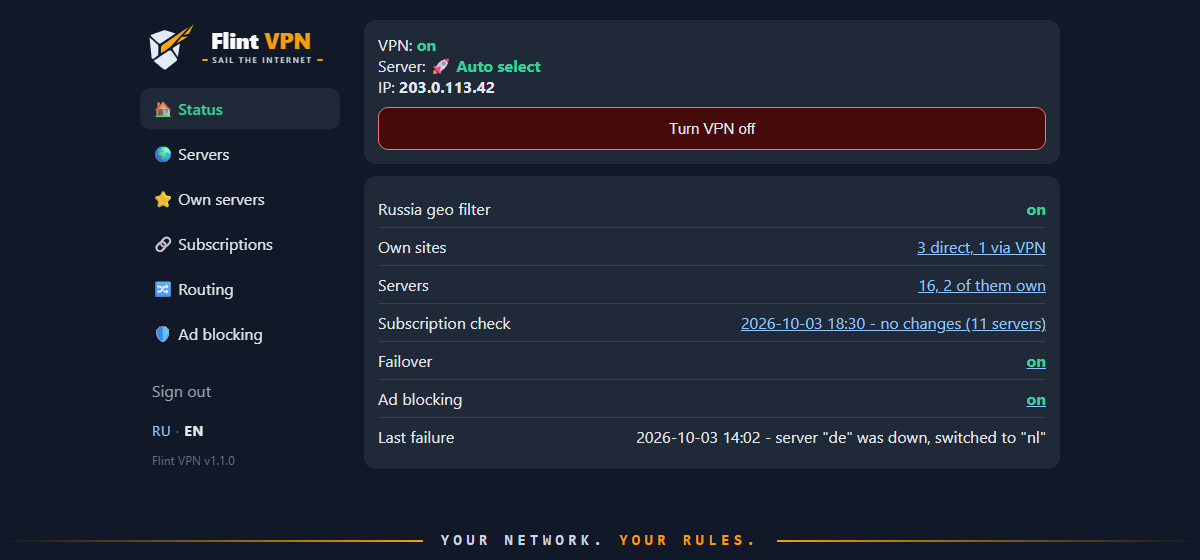
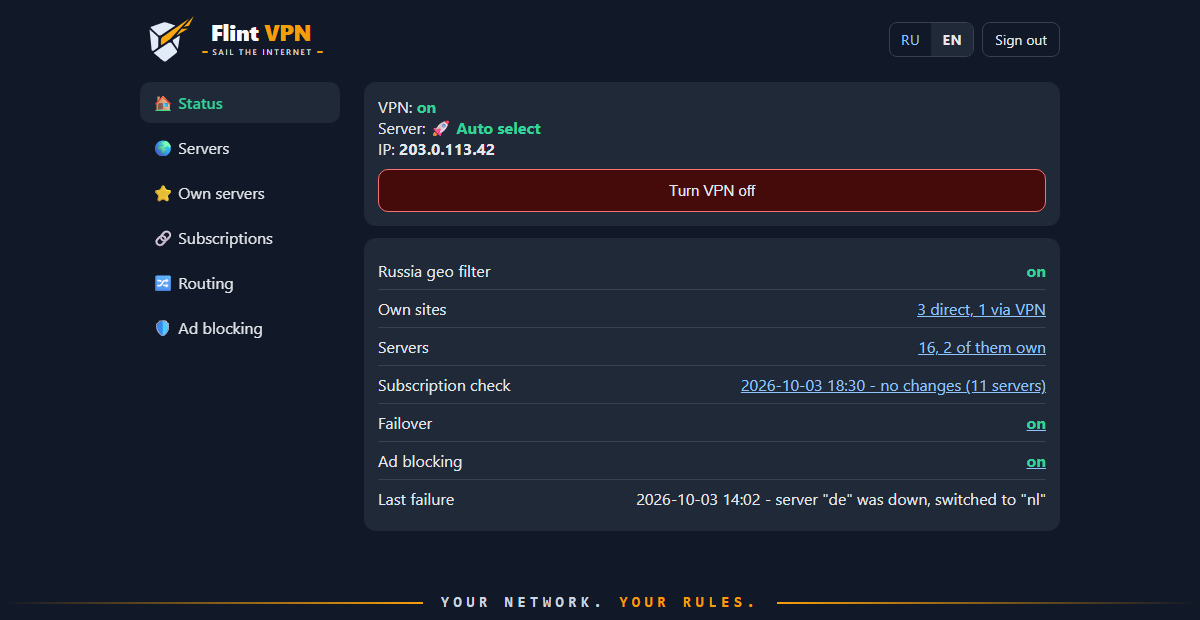
Panel: header with RU | EN and Sign out in the top right corner, version under the footer
Sign out was easy to miss under the menu on phones. Screenshots re-shot.

diff --git a/README.md b/README.md
@@ -39,7 +39,7 @@ Flint VPN превращает роутер GL.iNet в прозрачный VPN-
 - **Прозрачный VPN для всей сети.** TCP-трафик клиентов перенаправляется в Xray; на устройствах ничего настраивать не нужно.
 - **Гео-фильтр РФ.** Российские сайты (`geosite:category-ru`) и IP (`geoip:ru`) идут напрямую, остальное — через VPN. Выключается одной кнопкой (всё через VPN).
 - **Свои правила.** Сайты, IP и подсети «всегда напрямую» или «всегда через VPN» — важнее гео-фильтра.
-- **Веб-панель** `http://vpn.lan:81/` по PIN: выбор сервера, включение и выключение VPN, маршрутизация, свои серверы. Работает и с телефона. Русский и английский интерфейс: язык выбирается по браузеру, переключатель RU · EN в меню.
+- **Веб-панель** `http://vpn.lan:81/` по PIN: выбор сервера, включение и выключение VPN, маршрутизация, свои серверы. Работает и с телефона. Русский и английский интерфейс: язык выбирается по браузеру, переключатель RU | EN в правом верхнем углу.
 - **Подписки любых провайдеров.** Можно подключить несколько подписок в формате v2rayN / Happ / Hiddify — серверы всех появятся в панели, сгруппированные по провайдеру. Название, срок действия и трафик подписки подтягиваются сами. Список обновляется кнопкой или автоматически (от каждых 30 минут до раза в сутки); подписки роутер скачивает напрямую, так что обновление работает, даже когда текущий сервер лёг.
 - **Свои серверы.** Добавление по ссылке `vless://`, копией сервера из подписки или вручную; транспорт TCP (xtls-rprx-vision) или gRPC.
 - **Автопереключение при сбое.** Каждые 2 минуты роутер проверяет VPN; если сервер перестал отвечать, а интернет есть, обновляет подписку и переходит на первый рабочий сервер.
@@ -236,7 +236,7 @@ Panel: http://vpn.lan:81/  (PIN from flint.env)
 | **Маршрутизация** | гео-фильтр РФ (включить или выключить); свои сайты, IP и подсети «всегда напрямую» или «всегда через VPN» |
 | **Реклама** | блокировка рекламы (включить или выключить) и статистика за сутки; устройства без блокировки; списки фильтров — готовые и свои по ссылке; автообновление и «Обновить списки сейчас»; свои правила |
 
-Язык панели — русский или английский. При первом входе он выбирается по языку браузера (или по `UI_LANG` в `flint.env`), потом его можно сменить переключателем **RU · EN** под меню или на странице входа; выбор запоминается в браузере. На этом же языке пишутся сообщения после действий в панели.
+Язык панели — русский или английский. При первом входе он выбирается по языку браузера (или по `UI_LANG` в `flint.env`), потом его можно сменить переключателем **RU | EN** в правом верхнем углу (рядом с кнопкой «Выйти», на странице входа — там же); выбор запоминается в браузере. На этом же языке пишутся сообщения после действий в панели.
 
 Как пользоваться:
 - **Сменить сервер** — вкладка «Серверы», нажать на нужный. Роутер проверит конфиг и IP выхода; если сервер не отвечает, панель об этом скажет.

diff --git a/README.en.md b/README.en.md
@@ -34,7 +34,7 @@ Flint VPN turns a GL.iNet router into a transparent VPN gateway. Every device on
 
 **Why a custom web panel.** The ready-made solution from GitHub I was using simply refused to start on this router. So the Xray setup, server switching and everything else are done here from scratch: a set of shell scripts and a lightweight CGI panel running on the stock `uhttpd`, with no Node.js, Python or other heavy dependencies on the router.
 
-The panel is available in English and Russian: the language follows your browser, and there is an RU · EN switch in the menu.
+The panel is available in English and Russian: the language follows your browser, and there is an RU | EN switch in the top right corner.
 
 ## Features
 
@@ -236,7 +236,7 @@ Address: **http://vpn.lan:81/** (port 80 is taken by the stock GL.iNet admin pan
 | **Routing** | Russia geo filter on/off; own sites, IPs and subnets "always direct" or "always via VPN" |
 | **Ad blocking** | ad blocking on/off and 24-hour stats; devices without blocking; filter lists — ready-made and your own by URL; auto-update and "Update the lists now"; own rules |
 
-The panel speaks English and Russian. On the first visit the language follows the browser (or `UI_LANG` in `flint.env`); after that use the **RU · EN** switch under the menu or on the login page — the choice is remembered in the browser. Messages after panel actions use the same language.
+The panel speaks English and Russian. On the first visit the language follows the browser (or `UI_LANG` in `flint.env`); after that use the **RU | EN** switch in the top right corner (next to "Sign out"; on the login page too) — the choice is remembered in the browser. Messages after panel actions use the same language.
 
 ## Settings `config/flint.env`
 

diff --git a/CHANGELOG.md b/CHANGELOG.md
@@ -7,6 +7,7 @@
 ## [Не выпущено]
 
 ### Изменено
+- Шапка панели: логотип слева, переключатель языка RU | EN и кнопка «Выйти» — в правом верхнем углу на компьютере и телефоне (раньше «Выйти» терялась под меню). На странице входа переключатель языка тоже вверху справа, версия — внизу под девизом.
 - Вкладка «Реклама» объясняет, где реклама останется (ВКонтакте, YouTube — реклама с того же сайта) и кто обходит блокировку («Частный DNS», DoH в браузере, VPN-клиент).
 - README: раздел «Где реклама останется» (что не убирается по DNS, чем дополнить — uBlock Origin, кто обходит блокировку), в английском README — раздел «Devices on the network»; скриншоты пересняты, добавлен экран «Без серверов».
 

diff --git a/CHANGELOG.en.md b/CHANGELOG.en.md
@@ -7,6 +7,7 @@ Versions before 1.0.0 were assigned afterwards from the commit history.
 ## [Unreleased]
 
 ### Changed
+- Panel header: logo on the left, the RU | EN switch and "Sign out" in the top right corner on desktop and phone ("Sign out" used to get lost under the menu). The login page has the language switch at the top right too; the version moved to the bottom, under the motto.
 - The Ad blocking tab explains where ads remain (VK, YouTube — ads from the same site) and who bypasses the blocking (Private DNS, browser DoH, a VPN client).
 - README: a "Where ads remain" section (what DNS can't remove, uBlock Origin as a complement, who bypasses the blocking), a "Devices on the network" section in the English README; screenshots re-shot, a "No servers" screen added.
 
